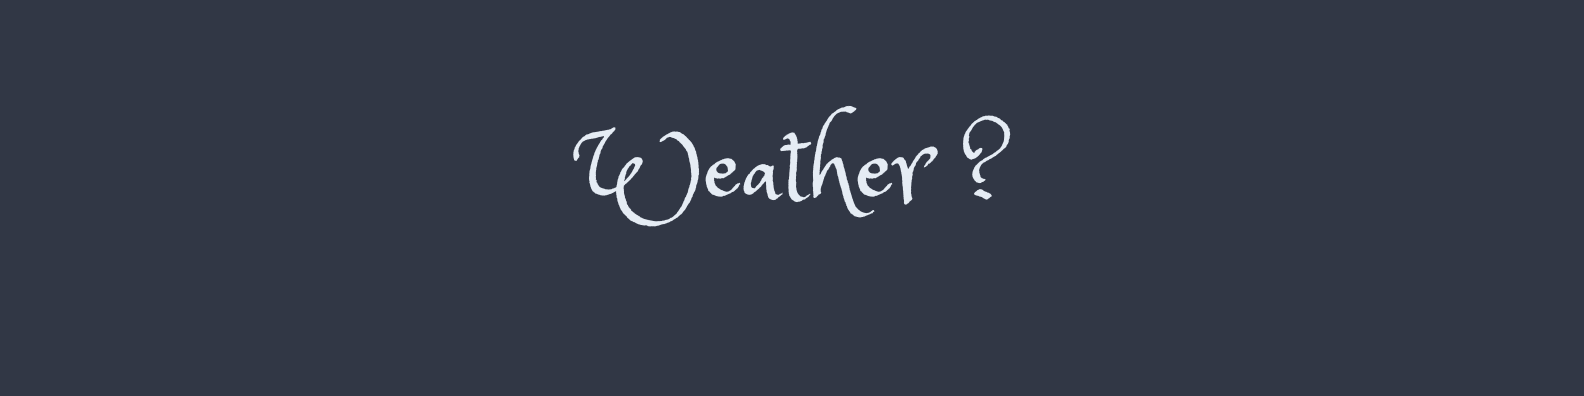
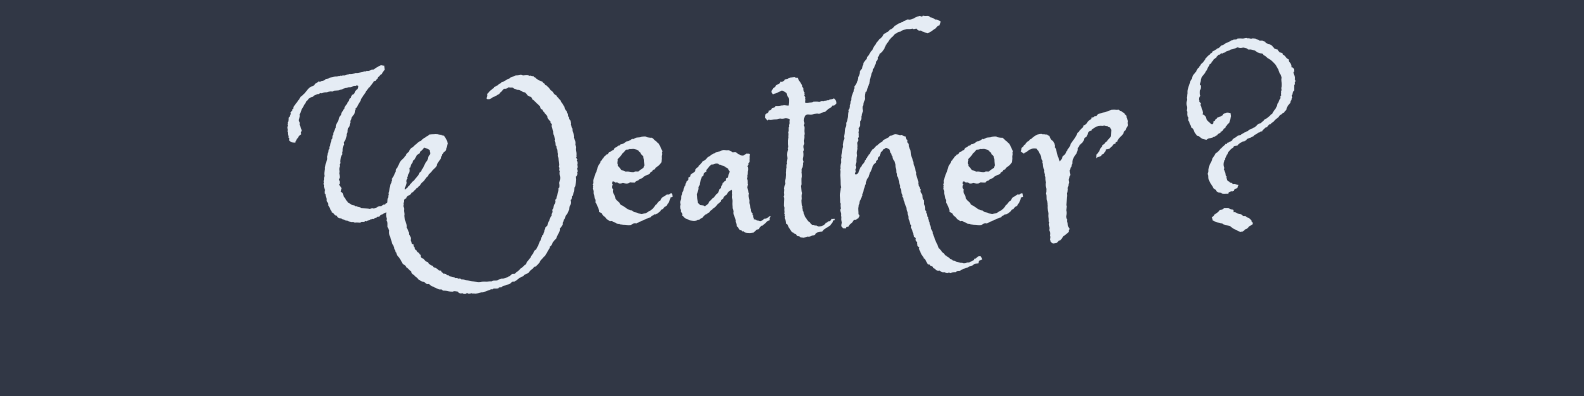
Login Page Design Complete

diff --git a/lib/Screens/LoginScreen.dart b/lib/Screens/LoginScreen.dart
@@ -1,4 +1,7 @@
 import 'package:flutter/material.dart';
+import 'package:flutter_forward_extended/Components/RoundedButton.dart';
+import '../Components/formField.dart';
+import '../Constants.dart' as constants;
 
 class LoginScreen extends StatefulWidget {
   const LoginScreen({Key? key}) : super(key: key);
@@ -12,10 +15,62 @@ class _LoginScreenState extends State<LoginScreen> {
   Widget build(BuildContext context) {
     Size size = MediaQuery.of(context).size;
     return Scaffold(
+      backgroundColor: constants.nightPrimary,
       body: Column(
         children: [
-          SizedBox(height: size.height*0.23),
-          Text('Weather Check'),
+          Expanded(
+            flex: 2,
+            child: Image(
+              image: const AssetImage('assets/images/Weather.png'),
+              width: size.width,
+            ),
+          ),
+          Expanded(
+            flex: 2,
+            child: Column(
+              children: [
+                SizedBox(
+                  width: size.width * 0.75,
+                  child: formField(
+                    size: size,
+                    text: 'Username',
+                    password: false,
+                  ),
+                ),
+                SizedBox(
+                  width: size.width * 0.75,
+                  child: formField(
+                    size: size,
+                    text: 'Password',
+                    password: true,
+                  ),
+                ),
+                SizedBox(
+                  height: size.height * 0.05,
+                ),
+                SizedBox(
+                  height: size.height * 0.07,
+                  child: RoundedButton(
+                    text: 'Login',
+                    press: () {},
+                    color: constants.dayPrimary,
+                    textColor: constants.nightPrimary,
+                    length: size * 0.55,
+                    fontsize: 30,
+                  ),
+                ),
+                TextButton(
+                  onPressed: () {},
+                  child: const Text(
+                    'Forgot Password',
+                    style: TextStyle(
+                      color: constants.dayPrimaryFade,
+                    ),
+                  ),
+                ),
+              ],
+            ),
+          ),
         ],
       ),
     );

diff --git a/lib/Components/RoundedButton.dart b/lib/Components/RoundedButton.dart
@@ -1,0 +1,49 @@
+import 'package:flutter/material.dart';
+
+class RoundedButton extends StatelessWidget {
+  final String text;
+  final Function() press;
+  final Color color, textColor;
+  final Color borderColor;
+  final Size length;
+  final double fontsize;
+
+  const RoundedButton({
+    super.key,
+    required this.text,
+    required this.press,
+    required this.color,
+    required this.textColor,
+    required this.length,
+    borderColor, required this.fontsize,
+  }) : borderColor = borderColor ?? color;
+
+  @override
+  Widget build(BuildContext context) {
+    return ClipRRect(
+      borderRadius: BorderRadius.circular(45),
+      child: Container(
+        width: length.width,
+        color: color,
+        child: TextButton(
+            style: TextButton.styleFrom(
+              shape: RoundedRectangleBorder(
+                  side: BorderSide(
+                    color: borderColor,
+                    width: 2.5,
+                  ),
+                  borderRadius: BorderRadius.circular(20)),
+            ),
+            onPressed: press,
+            child: Text(
+              text,
+              style: TextStyle(
+                color: textColor,
+                fontSize: fontsize,
+                fontFamily: 'Inter',
+              ),
+            )),
+      ),
+    );
+  }
+}

diff --git a/lib/Components/formField.dart b/lib/Components/formField.dart
@@ -1,0 +1,43 @@
+import 'package:flutter/material.dart';
+import '../Constants.dart' as constants;
+
+class formField extends StatelessWidget {
+  final String text;
+  final Size size;
+  final bool password;
+
+  const formField({
+    super.key,
+    required this.size,
+    required this.text,
+    required this.password,
+  });
+
+  @override
+  Widget build(BuildContext context) {
+    return Padding(
+      padding: EdgeInsets.symmetric(horizontal: 10, vertical: 15),
+      child: TextFormField(
+        style: TextStyle(
+          color: constants.dayPrimary,
+        ),
+        obscureText: password,
+        decoration: InputDecoration(
+          enabledBorder: const OutlineInputBorder(
+            borderSide: BorderSide(
+                color: constants.dayPrimary,
+                width: 2,
+                style: BorderStyle.solid),
+          ),
+          hintText: text,
+          hintStyle: TextStyle(
+            color: constants.dayPrimaryFade,
+            fontSize: size.width * 0.04,
+            fontWeight: FontWeight.w500,
+            fontFamily: 'Poppins',
+          ),
+        ),
+      ),
+    );
+  }
+}

diff --git a/lib/Constants.dart b/lib/Constants.dart
@@ -2,3 +2,4 @@ import 'package:flutter/material.dart';
 
 const Color nightPrimary = Color(0xff313745);
 const Color dayPrimary = Color(0xffe5ecf4);
+const Color dayPrimaryFade = Color(0x99e5ecf4);
